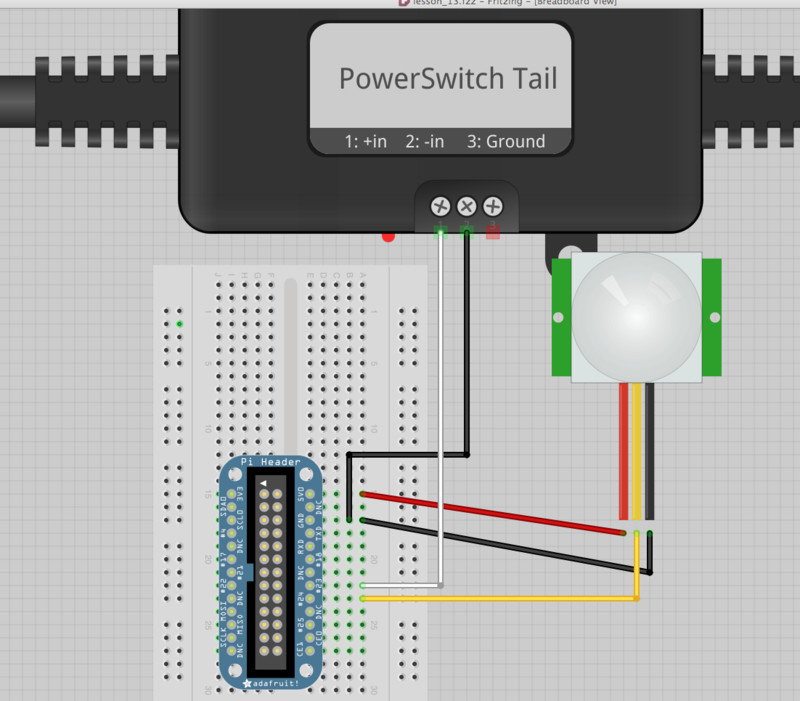
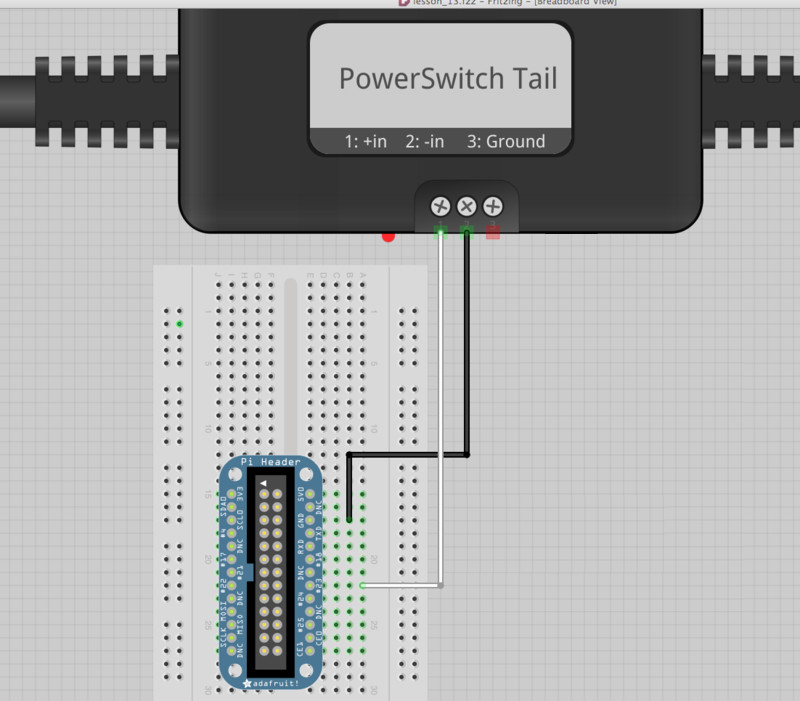
New wiring diagram and other fixes.

Changed region(s): [[0.4375, 0.5392, 0.8438, 0.8987], [0.75, 0.3595, 0.9062, 0.5392], [0.6562, 0.3295, 0.75, 0.5392]]

diff --git a/app.js b/app.js
@@ -1,7 +1,7 @@
 var tools = require('./tools.js'); // Load misc tools
 var max31855 = require('max31855');
 var Thermostat = require('thermostat');
-//var ps = require('powerswitch');
+//var ps = require('powerswitch'); // Will only work on a system with GPIO pins! Otherwise you'll get build errors
 var util = require('util');
 var validator = require('validator');
 var clc = require('cli-color');
@@ -133,6 +133,10 @@ function DummySwitch() {
   this.setOff = function() {
     this.isOn = false;
   };
+
+  this.destroy = function() {
+    // No op
+  }
 }
 
 /***********************************************/
@@ -206,6 +210,7 @@ if(validator.isIn(units, ['c','k','f'])) {
 
 var exitHandler = function(options, err) {
   thermostat.stop();
+  powerswitch.destroy();
 
   if (options.cleanup) console.log('clean');
   if (err) console.log(err.stack);
